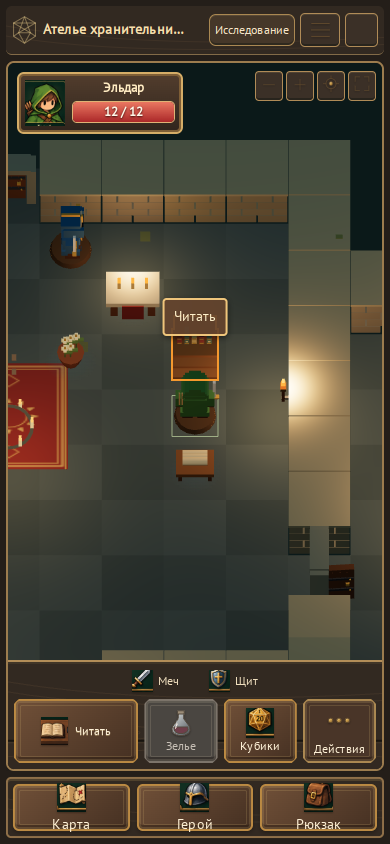
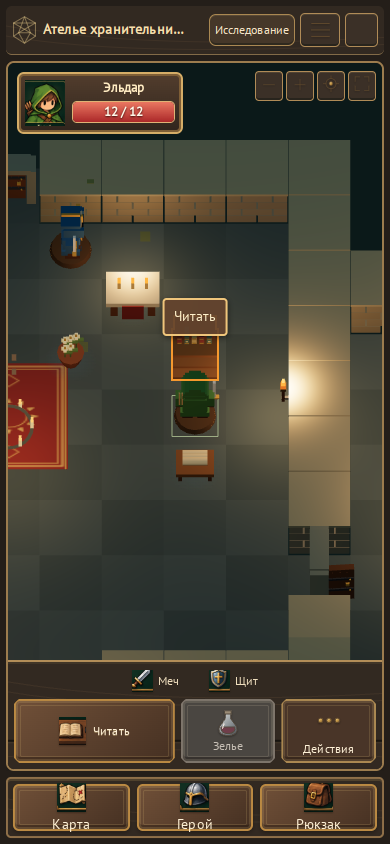
Update Site source

Changed region(s): [[0.5538, 0.8009, 0.9231, 0.9242], [0.0923, 0.8009, 0.4923, 0.9242]]

diff --git a/dist/style.css b/dist/style.css
@@ -37,7 +37,7 @@
 .point-budget{padding:12px;background:#244233;border:1px solid #8e9660;border-radius:10px;font-weight:600;font-size:18px!important}.point-stats{display:grid;gap:10px;margin:16px 0}.point-stat{display:grid;grid-template-columns:minmax(100px,1fr) 44px 38px 44px;gap:8px;align-items:center;padding:10px;border:1px solid #45604d;border-radius:10px}.point-stat strong{text-align:center;font-size:23px}.point-stat small{grid-column:1/-1;color:#c5cfb8;font-size:14px}.point-stat button{padding:0!important;font-size:23px}.point-stat button:disabled{opacity:.35}
 .world-save{min-height:36px;margin:8px 0 4px;padding:7px 12px;font-size:14px!important;color:#d2dabb;background:#193328;border:1px solid #5f7759;border-radius:9px}.world-save.save-error{color:#ffd19a;border-color:#b88750}.playing-world #tab-test{display:none}.world-locked #board,.world-locked #map-hands,.world-locked #quick-actions{pointer-events:none;opacity:.65}.saved-hero details summary{min-height:36px}.saved-hero>button{margin:0}
 /* Portrait play surface: all primary controls stay within the viewport. */
-body.game-ui{height:100dvh;overflow:hidden}.game-ui .tabletop{width:100%;min-width:0;height:100dvh;max-width:1400px;padding:calc(6px + env(safe-area-inset-top)) 8px calc(6px + env(safe-area-inset-bottom));display:grid;grid-template-rows:auto minmax(0,1fr) auto;gap:6px}.game-ui header{min-width:0;display:flex;gap:8px;margin:0;min-height:40px}.game-ui .title{flex:1;min-width:0;gap:6px}.game-ui .d20{width:25px;height:31px}.game-ui h1{font-size:18px}.game-ui .scene-name{font-size:14px;margin:0;white-space:nowrap;overflow:hidden;text-overflow:ellipsis;max-width:180px}.game-ui .turn{font:14px/1.2 system-ui;padding:8px;max-width:110px;white-space:normal}.game-ui .menu{height:38px}.game-ui .world-save{margin:0 0 0 5px;min-height:22px;max-width:110px;font-size:12px!important;white-space:nowrap;overflow:hidden;text-overflow:ellipsis;padding:2px 5px}.game-ui .title>div{display:flex;flex-wrap:wrap;align-items:center;gap:2px 5px}.game-ui #title{display:none}.game-ui #map-view{position:relative;min-height:0;overflow:hidden}.game-ui .map-shell{height:100%;padding:0;border-radius:12px;position:relative}.game-ui .viewport{height:100%;width:100%;border-radius:11px}.game-ui .map-toolbar{position:absolute;top:7px;right:7px;z-index:12;padding:0}.game-ui .map-toolbar>span,.game-ui .camera-tip,.game-ui .route-note{display:none!important}.game-ui .map-toolbar button{min-height:36px;background:#163125ee}.game-ui .party{position:absolute;top:7px;left:7px;z-index:12;display:block;width:152px}.game-ui .member:not(.active){display:none}.game-ui .member{width:152px;height:66px;grid-template-columns:45px 1fr;grid-template-rows:auto auto 6px;padding:4px 7px 7px 1px;background:#153024ed}.game-ui .portrait{width:43px;height:54px}.game-ui .member b{font-size:16px}.game-ui .member small{font-size:14px}.game-ui .episode-status{position:absolute;top:80px;left:7px;right:7px;z-index:11;min-height:34px;padding:6px 10px;margin:0;font-size:14px;line-height:1.3;text-align:left;background:#153025ee;border:1px solid #8f855f;white-space:nowrap;overflow:hidden;text-overflow:ellipsis}.game-ui .target-panel{position:absolute;right:7px;top:122px;z-index:11;max-width:215px;padding:7px;grid-template-columns:36px 1fr 28px;gap:6px;min-height:0;background:#102a21ed}.game-ui .target-art{width:36px;height:43px}.game-ui .target-panel h2{font-size:16px;margin:0}.game-ui .target-panel #target-hp{font-size:14px}.game-ui .target-panel #target-extra{display:none}.game-ui .target-panel.expanded #target-extra{display:block;font-size:14px}.game-ui #target-toggle{width:28px;min-height:36px;padding:0}.game-ui .play-dock{position:absolute;bottom:0;left:0;right:0;z-index:14;background:linear-gradient(#122b22f5,#0c231cff);padding:6px 7px 7px;border-top:1px solid #52674c;border-radius:12px 12px 0 0}.game-ui .map-hands{margin:0 0 5px;display:flex;gap:6px;min-height:0}.game-ui .map-hands>span{display:none}.game-ui .map-hands button{flex:1;min-height:36px;border-radius:8px;padding:4px 8px;font-size:14px;background:#203a2f;color:#e4d6ad;border:1px solid #52624c}.game-ui .actions{display:grid;grid-template-columns:1.3fr repeat(3,1fr);gap:5px;margin:0}.game-ui.in-combat .actions{grid-template-columns:1.2fr repeat(4,1fr)}.game-ui .actions button{padding:6px 3px;min-height:48px;border-radius:9px;gap:3px;display:flex;flex-direction:column;align-items:center;justify-content:center}.game-ui .actions button span{font-size:18px;line-height:1}.game-ui .actions button b{font-size:14px;line-height:1.2;font-weight:500}.game-ui .turn-strip{font-size:14px;margin:0 0 5px}.game-ui #initiative{position:absolute;top:119px;left:7px;right:7px;z-index:10;max-width:60%;overflow:auto;display:flex;gap:4px}.game-ui #initiative:empty{display:none}.game-ui .last-roll{position:absolute;bottom:117px;left:7px;z-index:13;max-width:65%;padding:6px 9px;min-height:32px;font-size:14px;background:#142f25ed;border:1px solid #667654;border-radius:8px}.game-ui #journal{margin:0;width:36px;height:38px;min-height:0;display:block;padding:5px;font-size:22px}.game-ui #map-view>.status,.game-ui .rules-credit,.game-ui .learning-tip,.game-ui .light-state,.game-ui .roll-ledger{display:none!important}.game-ui .tabs{position:static;margin:0;padding:5px;display:grid;grid-template-columns:repeat(3,minmax(0,1fr));gap:5px;min-height:54px}.game-ui .tabs button{min-width:0;min-height:44px;padding:5px 4px;font-size:14px;gap:6px}.game-ui .tabs span{font-size:21px}.game-ui .view:not(#map-view):not(#bag-view){overflow:auto;min-height:0;padding-bottom:8px}.game-ui #trial-panel{position:absolute;left:8px;right:8px;bottom:115px;z-index:15}.game-ui .object-prompt{max-width:210px}.game-ui #roll-result{position:fixed;top:auto;bottom:calc(68px + env(safe-area-inset-bottom));margin:0 auto;width:min(94vw,480px);max-height:60dvh;border:1px solid #a99868;border-radius:14px;padding:13px;background:#153126;color:#eee7d3}.game-ui #roll-result::backdrop{background:#04171066}.roll-heading{display:flex;justify-content:space-between;gap:8px;font-size:16px}.roll-heading span{font-size:14px;color:#c7c7a8}.check-body{display:flex;align-items:center;gap:14px;margin:10px 0}.check-die{width:58px;height:65px;display:grid;place-items:center;flex:none;clip-path:polygon(50% 0,95% 25%,95% 75%,50% 100%,5% 75%,5% 25%);background:#ad8f44;color:#fff3c2;font:bold 28px Georgia}.check-body p{font-size:16px;margin:0 0 5px}.check-success{color:#a9d59b}.check-failure{color:#e2ab93}#check-next{width:100%;min-height:44px;font-size:16px}.game-ui #modal pre{white-space:pre-wrap;font-size:16px;line-height:1.4}@media(min-width:800px){.game-ui .tabletop{max-width:1100px}.game-ui .play-dock{left:18%;right:18%}.game-ui .party{width:172px}.game-ui .member{width:172px}}
+body.game-ui{height:100dvh;overflow:hidden}.game-ui .tabletop{width:100%;min-width:0;height:100dvh;max-width:1400px;padding:calc(6px + env(safe-area-inset-top)) 8px calc(6px + env(safe-area-inset-bottom));display:grid;grid-template-rows:auto minmax(0,1fr) auto;gap:6px}.game-ui header{min-width:0;display:flex;gap:8px;margin:0;min-height:40px}.game-ui .title{flex:1;min-width:0;gap:6px}.game-ui .d20{width:25px;height:31px}.game-ui h1{font-size:18px}.game-ui .scene-name{font-size:14px;margin:0;white-space:nowrap;overflow:hidden;text-overflow:ellipsis;max-width:180px}.game-ui .turn{font:14px/1.2 system-ui;padding:8px;max-width:110px;white-space:normal}.game-ui .menu{height:38px}.game-ui .world-save{margin:0 0 0 5px;min-height:22px;max-width:110px;font-size:12px!important;white-space:nowrap;overflow:hidden;text-overflow:ellipsis;padding:2px 5px}.game-ui .title>div{display:flex;flex-wrap:wrap;align-items:center;gap:2px 5px}.game-ui #title{display:none}.game-ui #map-view{position:relative;min-height:0;overflow:hidden}.game-ui .map-shell{height:100%;padding:0;border-radius:12px;position:relative}.game-ui .viewport{height:100%;width:100%;border-radius:11px}.game-ui .map-toolbar{position:absolute;top:7px;right:7px;z-index:12;padding:0}.game-ui .map-toolbar>span,.game-ui .camera-tip,.game-ui .route-note{display:none!important}.game-ui .map-toolbar button{min-height:36px;background:#163125ee}.game-ui .party{position:absolute;top:7px;left:7px;z-index:12;display:block;width:152px}.game-ui .member:not(.active){display:none}.game-ui .member{width:152px;height:66px;grid-template-columns:45px 1fr;grid-template-rows:auto auto 6px;padding:4px 7px 7px 1px;background:#153024ed}.game-ui .portrait{width:43px;height:54px}.game-ui .member b{font-size:16px}.game-ui .member small{font-size:14px}.game-ui .episode-status{position:absolute;top:80px;left:7px;right:7px;z-index:11;min-height:34px;padding:6px 10px;margin:0;font-size:14px;line-height:1.3;text-align:left;background:#153025ee;border:1px solid #8f855f;white-space:nowrap;overflow:hidden;text-overflow:ellipsis}.game-ui .target-panel{position:absolute;right:7px;top:122px;z-index:11;max-width:215px;padding:7px;grid-template-columns:36px 1fr 28px;gap:6px;min-height:0;background:#102a21ed}.game-ui .target-art{width:36px;height:43px}.game-ui .target-panel h2{font-size:16px;margin:0}.game-ui .target-panel #target-hp{font-size:14px}.game-ui .target-panel #target-extra{display:none}.game-ui .target-panel.expanded #target-extra{display:block;font-size:14px}.game-ui #target-toggle{width:28px;min-height:36px;padding:0}.game-ui .play-dock{position:absolute;bottom:0;left:0;right:0;z-index:14;background:linear-gradient(#122b22f5,#0c231cff);padding:6px 7px 7px;border-top:1px solid #52674c;border-radius:12px 12px 0 0}.game-ui .map-hands{margin:0 0 5px;display:flex;gap:6px;min-height:0}.game-ui .map-hands>span{display:none}.game-ui .map-hands button{flex:1;min-height:36px;border-radius:8px;padding:4px 8px;font-size:14px;background:#203a2f;color:#e4d6ad;border:1px solid #52624c}.game-ui .actions{display:grid;grid-template-columns:1.3fr repeat(2,1fr);gap:5px;margin:0}.game-ui.in-combat .actions{grid-template-columns:1.2fr repeat(3,1fr)}.game-ui .actions button{padding:6px 3px;min-height:48px;border-radius:9px;gap:3px;display:flex;flex-direction:column;align-items:center;justify-content:center}.game-ui .actions button span{font-size:18px;line-height:1}.game-ui .actions button b{font-size:14px;line-height:1.2;font-weight:500}.game-ui .turn-strip{font-size:14px;margin:0 0 5px}.game-ui #initiative{position:absolute;top:119px;left:7px;right:7px;z-index:10;max-width:60%;overflow:auto;display:flex;gap:4px}.game-ui #initiative:empty{display:none}.game-ui .last-roll{position:absolute;bottom:117px;left:7px;z-index:13;max-width:65%;padding:6px 9px;min-height:32px;font-size:14px;background:#142f25ed;border:1px solid #667654;border-radius:8px}.game-ui #journal{margin:0;width:36px;height:38px;min-height:0;display:block;padding:5px;font-size:22px}.game-ui #map-view>.status,.game-ui .rules-credit,.game-ui .learning-tip,.game-ui .light-state,.game-ui .roll-ledger{display:none!important}.game-ui .tabs{position:static;margin:0;padding:5px;display:grid;grid-template-columns:repeat(3,minmax(0,1fr));gap:5px;min-height:54px}.game-ui .tabs button{min-width:0;min-height:44px;padding:5px 4px;font-size:14px;gap:6px}.game-ui .tabs span{font-size:21px}.game-ui .view:not(#map-view):not(#bag-view){overflow:auto;min-height:0;padding-bottom:8px}.game-ui #trial-panel{position:absolute;left:8px;right:8px;bottom:115px;z-index:15}.game-ui .object-prompt{max-width:210px}.game-ui #roll-result{position:fixed;top:auto;bottom:calc(68px + env(safe-area-inset-bottom));margin:0 auto;width:min(94vw,480px);max-height:60dvh;border:1px solid #a99868;border-radius:14px;padding:13px;background:#153126;color:#eee7d3}.game-ui #roll-result::backdrop{background:#04171066}.roll-heading{display:flex;justify-content:space-between;gap:8px;font-size:16px}.roll-heading span{font-size:14px;color:#c7c7a8}.check-body{display:flex;align-items:center;gap:14px;margin:10px 0}.check-die{width:58px;height:65px;display:grid;place-items:center;flex:none;clip-path:polygon(50% 0,95% 25%,95% 75%,50% 100%,5% 75%,5% 25%);background:#ad8f44;color:#fff3c2;font:bold 28px Georgia}.check-body p{font-size:16px;margin:0 0 5px}.check-success{color:#a9d59b}.check-failure{color:#e2ab93}#check-next{width:100%;min-height:44px;font-size:16px}.game-ui #modal pre{white-space:pre-wrap;font-size:16px;line-height:1.4}@media(min-width:800px){.game-ui .tabletop{max-width:1100px}.game-ui .play-dock{left:18%;right:18%}.game-ui .party{width:172px}.game-ui .member{width:172px}}
 
 .game-ui #journal>span{display:none}.game-ui #journal:before{content:'▤'}
 
@@ -75,7 +75,7 @@ body.illustrated-ui{--ui-gold:#c9a15c;--ui-ink:#091c19;--font-ui:'Trebuchet MS',
 .illustrated-ui #target-extra{display:none!important}
 .illustrated-ui #play-dock{position:relative;inset:auto;flex:none;z-index:2;padding:5px 6px 6px;background:linear-gradient(145deg,#1d3328,#0b211a);border-top:1px solid #967649;border-radius:0;box-shadow:inset 0 2px 0 #d4b56c16}
 .illustrated-ui .map-hands{justify-content:center;gap:12px;margin:0 0 5px;min-height:26px}.illustrated-ui .map-hands button{flex:0 1 auto;display:flex;align-items:center;gap:5px;padding:2px 9px;min-height:26px;font-size:12px;border:0;border-radius:0;box-shadow:none;background:none;color:#c8bc93}.illustrated-ui .map-hands .ui-icon{width:21px;height:22px}
-.illustrated-ui .actions{grid-template-columns:1.7fr repeat(3,1fr);gap:5px}.illustrated-ui.in-combat .actions{grid-template-columns:1.5fr repeat(4,1fr)}
+.illustrated-ui .actions{grid-template-columns:1.7fr repeat(2,1fr);gap:5px}.illustrated-ui.in-combat .actions{grid-template-columns:1.5fr repeat(3,1fr)}
 .illustrated-ui .actions button{min-height:49px;display:flex;flex-direction:column;justify-content:center;gap:1px;border-radius:3px;padding:4px 2px;clip-path:polygon(5px 0,calc(100% - 5px) 0,100% 5px,100% calc(100% - 5px),calc(100% - 5px) 100%,5px 100%,0 calc(100% - 5px),0 5px)}
 .illustrated-ui .actions button b{font-size:13px;line-height:1.1}.illustrated-ui .actions .ui-icon{width:25px;height:26px}.illustrated-ui #action{flex-direction:row;gap:6px}.illustrated-ui #action .ui-icon{width:27px;height:28px}
 .illustrated-ui .tabs{position:static;background:linear-gradient(#1c3328,#0a2019);padding:3px 4px 2px;border:1px solid #725e3f;border-radius:5px;min-height:53px;gap:0;box-shadow:inset 0 2px 0 #cbaa6030}

diff --git a/dist/game.js b/dist/game.js
@@ -37,7 +37,7 @@ const wait=ms=>new Promise(r=>setTimeout(r,ms)),animate=()=>state.settings.anima
 async function travel(e,steps){let completed=0;const controlled=e.kind<3&&busy&&e.id===state.active;moving=controlled;if(controlled)render();try{for(const p of steps){if(controlled&&stopRequested)break;const duration=animate()?220:0;if(state.combat&&!e.disengaged){for(const foe of(e.kind===3?state.party:state.enemies).filter(f=>f.hp>0&&!f.reactionUsed&&DND.weapon(f,state.level).range===1&&dist(e,f)===1&&dist(p,f)>1)){foe.reactionUsed=true;await strike(foe,e,foe.kind===3,true);if(e.hp<=0)return completed}}const from={x:e.x,y:e.y};face(e,p);e.x=p.x;e.y=p.y;if(state.combat&&controlled)e.move--;save();window.voxel?.move(e.id,from,p,duration);renderPieces();window.voxel?.sync();window.fx?.step(e,duration);await wait(duration);completed++;if(e.id===state.active)window.camera?.follow(e);if(controlled)path=steps.slice(completed);}return completed;}finally{if(controlled)moving=false;}}
 async function move(){if(window.Worlds?.locked)return;const a=active(),r=path.slice();if(busy||!r.length||(state.combat&&r.length>a.move))return;busy=true;stopRequested=false;render();try{await travel(a,r);selected=null;}finally{path=[];busy=false;save();render();}}
 function report(text){state.rolls.push(text);if(state.rolls.length>40)state.rolls.shift();tell(text)}
-function freeRoll(expression){const r=DND.roll(expression);report(r.text);$('dice-panel').close();window.HUD?.showRoll(r,'Свободный бросок');$('dice-result').textContent=r.text;$('number').textContent=r.total;$('dice').hidden=false;setTimeout(()=>$('dice').hidden=true,1600);render();return r}
+function freeRoll(expression){if(state.world||document.getElementById('test-view').hidden)throw Error('Свободные броски доступны только в мастерской.');const r=DND.roll(expression);report(r.text);$('dice-panel').close();window.HUD?.showRoll(r,'Свободный бросок');$('dice-result').textContent=r.text;$('number').textContent=r.total;$('dice').hidden=false;setTimeout(()=>$('dice').hidden=true,1600);render();return r}
 function heal(a,n){a.hp=Math.min(a.max,a.hp+n);if(a.hp>0){a.conditions=a.conditions.filter(c=>c!=='unconscious');a.death={success:0,failure:0,stable:false}}}
 async function strike(a,b,enemy=false,reaction=false){face(a,b);renderPieces();window.voxel?.sync();const hasAdvantage=state.advantage>0||a.hidden||b.conditions?.includes('unconscious');const hasDisadvantage=state.advantage<0||a.hands?.includes('torch')||(b.dodging&&window.visibility?.canSee(b,a))||a.conditions.includes('poisoned')||(DND.weapon(a,state.level).range>1&&all().some(e=>e.kind!==a.kind&&e.kind>=3!== (a.kind>=3)&&!e.dummy&&e.hp>0&&dist(a,e)===1));const advantage=hasAdvantage&&hasDisadvantage?0:hasAdvantage?1:hasDisadvantage?-1:0;const r=DND.attack(a,b,a.kind===3?1:state.level,advantage);if(a.hands?.includes('torch'))r.text+='\nФакел в руке — источник помехи (правило игры).';if(r.hit&&b.conditions?.includes('unconscious')&&dist(a,b)===1&&!r.critical){r.critical=true;const w=r.weapon;r.damage=DND.roll(`${(w.count||1)*2}d${w.die}${w.damageBonus?(w.damageBonus>0?'+':'')+w.damageBonus:''}`);r.amount=r.damage.total;r.text+='\nБез сознания: критическое попадание вблизи · '+r.damage.text;}a.hidden=false;
  if(r.hit&&b.kind===1&&b.classId!=='cleric'&&state.autoShield&&b.slots>0&&!b.reactionUsed&&r.natural!==20&&r.total<b.ac+5){b.slots--;b.reactionUsed=true;b.shielded=true;r.hit=false;r.amount=0;r.text+='\nМира: реакция «Щит», КД +5. Удар отражён.';}
@@ -74,7 +74,7 @@ function modal(title,text){$('modal-title').textContent=title;$('modal-body').te
 function journal(){modal('Хроника',state.logs.slice(-20).join('\n\n'))}
 function help(){modal('Как проверять полигон','Нажмите клетку, затем «Идти». Движение и атаки — по четырём сторонам (домашнее правило). Инициатива задаёт очередь, действие и бонус расходуются отдельно. Факел сначала нужно снять с настенного крепления с соседней клетки. В «Герое» или «Действиях» выберите, что держать в двух руках; в «Рюкзаке» можно зажечь, погасить и убрать найденный факел. На пустое крепление его можно вернуть. Щит даёт +2 КД, лук занимает две руки. Домашние правила: факел в руке даёт помеху атакам; в бою смена снаряжения расходует действие, операции с факелом — бонусное действие. Преимущество и помеха взаимно отменяются. Откройте «Действия» для навыков и отдыха. Фигурки поворачиваются к шагу и цели. Приближайте карту двумя пальцами и двигайте одним. Предметы и NPC доступны с соседней клетки. Вкладка «Тест» восстанавливает предметы, запускает бой и позволяет менять свет. Диалоги сейчас сценарные; ИИ-ведущий ещё не подключён.')}
 function test(action,value){if(state.world){tell('Проверки доступны в отдельной тестовой комнате.');render();return;}if(busy)return;switch(action){case'rules':state.rulesStage=+value;tell('Этап освоения правил: '+state.rulesStage+'.');break;case'poison':active().conditions=active().conditions.includes('poisoned')?[]:['poisoned'];tell('Состояние «Отравлен» переключено.');break;case'down':active().hp=0;active().conditions=['unconscious'];active().death={success:0,failure:0,stable:false};tell('Герой без сознания. Восстановите его кнопкой теста.');break;case'heal':for(const p of state.party){p.dead=false;heal(p,p.max);p.acted=p.bonusUsed=p.reactionUsed=false;p.move=p.speed||6;p.slots=p.maxSlots;p.secondWind=p.maxSecondWind}state.potions=8;tell('Отряд и зелья восстановлены.');break;case'coins':state.gold+=50;tell('+50 тестовых монет.');break;case'xp':state.xp+=100;tell('+100 опыта.');break;case'loot':state.loot={};state.chest=false;state.relic=false;tell('Сундуки и алтарь сброшены.');break;case'dialogue':state.persuasionAttempted=false;state.secretKnown=false;state.clues=[];window.openKeeperDialogue?.();break;case'npc':if(state.scene!=='hub')enterScene('hub');state.party[0].x=6;state.party[0].y=4;state.active=state.party[0].id;selected={x:6,y:3};window.camera?.center(active(),true);break;case'dummies':if(state.scene!=='hub')enterScene('hub');state.doors['hub:door']=true;state.party.forEach((p,i)=>{[p.x,p.y]=scene().trainingSpawn[i]});window.camera?.center(active(),true);break;case'fight':state.combat=true;state.round=1;state.party.forEach((p,i)=>{[p.x,p.y]=scene().trainingSpawn[i];p.dead=false;heal(p,p.max);p.acted=p.bonusUsed=p.reactionUsed=false;p.move=p.speed});state.doors[state.scene+':door']=true;state.enemies=scene().enemySpawn.map(([x,y],i)=>DND.init({id:'e'+i,name:i?'Костяной дозорный':'Скелетный страж',kind:3,x,y,facing:3}));for(const p of [...state.party,...state.enemies]){const r=DND.test(DND.mod(p.stats.dex),0);p.initiative=r.total;report(p.name+' · инициатива · '+r.text.split(' против ')[0]);}state.order=[...state.party,...state.enemies].sort((a,b)=>b.initiative-a.initiative||DND.mod(b.stats.dex)-DND.mod(a.stats.dex)||a.id.localeCompare(b.id)).map(p=>p.id);state.cursor=0;busy=true;tell('Тренировочный бой. Очередь определена инициативой.');render();enemiesUntilPlayer(false);return;case'peace':state.combat=false;state.enemies=[];tell('Свободное исследование.');break;case'scene':enterScene(value);return;case'doors':for(const p of props().filter(p=>p.type==='door'))if(!entity(p))state.doors[doorKey(p)]=!isOpen(p);tell('Двери переключены.');break;case'damage':window.fx?.impact(active(),8,false,animate());break;case'crit':window.fx?.impact(active(),16,true,animate());break;case'miss':window.fx?.impact(active(),'Промах',false,animate());break;case'light':state.settings.lights=!state.settings.lights;break;case'grid':state.settings.grid=!state.settings.grid;break;case'animations':state.settings.animations=!state.settings.animations;break;case'ambient':state.settings.ambient=+value;break;case'intensity':state.settings.intensity=+value;break;case'reset':state=fresh();enterScene('hub');return}save();render();}
-$('roll').onclick=()=>{$('dice-panel').showModal()};$('potion').onclick=potion;$('end').onclick=endTurn;$('journal').onclick=()=>window.openNarratorDialogue?.();$('turn').onclick=help;$('close').onclick=()=>$('modal').close();$('menu').onclick=()=>window.GameMenu.open();$('target-toggle').onclick=()=>{$('target-panel').classList.toggle('expanded');$('target-toggle').setAttribute('aria-expanded',String($('target-panel').classList.contains('expanded')))};
+$('roll').onclick=()=>{};document.getElementById('workshop-dice').onclick=()=>{if(!state.world&&!document.getElementById('test-view').hidden)$('dice-panel').showModal();};$('potion').onclick=potion;$('end').onclick=endTurn;$('journal').onclick=()=>window.openNarratorDialogue?.();$('turn').onclick=help;$('close').onclick=()=>$('modal').close();$('menu').onclick=()=>window.GameMenu.open();$('target-toggle').onclick=()=>{$('target-panel').classList.toggle('expanded');$('target-toggle').setAttribute('aria-expanded',String($('target-panel').classList.contains('expanded')))};
 function loadHero(h,fromMenu=false){if(busy||state.combat&&!fromMenu)return false;window.Worlds?.detach();const settings={...state.settings};state=fresh();state.settings=settings;state.heroTestId=h.id;const a=structuredClone(h);[a.x,a.y]=World.scenes.hub.spawns[0];state.party=[a];state.active=a.id;state.level=a.level;state.xp=a.xp;state.gold=a.gold;state.potions=0;state.rulesStage=3;state.logs=['Тестовая комната · '+a.name+'. Здесь можно проверить созданного героя; испытания не меняют его сохранённый стартовый лист.'];pieces.forEach(el=>el.remove());pieces.clear();selected=null;path=[];window.closeDialogue?.();window.Torches?.ensure();createCells();save();render();window.voxel?.reset();window.camera?.center(a);return true;}
 function loadWorld(snapshot){state=structuredClone(snapshot);state.altarClaims||={};state.world.discovered||=['hub'];selected=null;path=[];busy=moving=false;stopRequested=false;pieces.forEach(el=>el.remove());pieces.clear();window.closeDialogue?.();window.Torches?.ensure();createCells();render();window.voxel?.reset();window.camera?.center(active());return true;}
 window.gameDebug={loadWorld,loadHero,get state(){return state},get departingNpc(){return departingNpc},departNpc,approachTransfer,get busy(){return busy||!!window.Worlds?.locked},get props(){return props()},get scene(){return scene()},get selected(){return selected},get route(){return path},get moving(){return moving},stop:()=>{stopRequested=true},special,freeRoll,report,heal,all,isOpen,blocked,select,attack,pathTo,line,canAttack,approachInteract,approachPath,center:p=>({x:(p.x+.5)/scene().W,y:(p.y+.5)/scene().H}),render,art,active,save,tell,potion,journal,help,roll,test,enterScene,animate,getPiece:id=>pieces.get(id)};

diff --git a/dist/index.html b/dist/index.html
@@ -4,11 +4,11 @@
 <div class="map-shell"><div class="map-toolbar"><span>Карта</span><div><button id="zoom-out" aria-label="Уменьшить">−</button><button id="zoom-in" aria-label="Увеличить">+</button><button id="camera-center">К герою</button><button id="camera-fit">Целиком</button></div></div>
 <p id="route-note" class="route-note" hidden></p><div id="viewport" class="viewport"><div id="board" class="board" role="grid" aria-label="Тестовая локация"><canvas id="terrain"></canvas><div id="cells" class="cells"></div><div id="actors" class="actors"><div id="objects" class="objects"></div><div id="pieces" class="pieces"></div></div><div id="torches" class="torches"></div><canvas id="lighting" aria-hidden="true"></canvas><div id="effects" class="effects"></div></div><div id="dice" class="dice" hidden><b id="number">20</b><small>бросок</small></div><details class="roll-ledger" open><summary>Расчёт броска</summary><pre id="roll-log"></pre></details><span class="camera-tip">Двигайте карту · два пальца для масштаба</span></div></div>
 <button id="episode-status" class="episode-status" hidden></button><section id="target-panel" class="target-panel"><div id="target-art" class="target-art"></div><div class="target-copy"><h2 id="target-name"></h2><span id="target-hp"></span><div class="hp-track target-track"><i id="target-bar"></i></div><p id="target-extra"></p></div><button id="target-toggle" aria-label="Подробности цели" aria-expanded="false">···</button></section>
-<div id="map-hands" class="map-hands" aria-label="Снаряжение рук"></div><section id="trial-panel" class="trial-panel" hidden><div><b id="trial-step"></b><button id="trial-stop">Закончить</button></div><p id="trial-hint"></p><button id="trial-focus">Показать цель</button></section><div id="initiative" class="initiative" aria-label="Очередь инициативы"></div><div class="turn-strip"><span id="turn-resources"></span><button id="combat-tools-toggle" aria-label="Раскрыть действия">Действия</button></div><section id="combat-tools" class="combat-tools" hidden><label>Бросок <select id="advantage"><option value="0">Обычный</option><option value="1">Преимущество</option><option value="-1">Помеха</option></select></label><div id="quick-actions" class="quick-actions"></div><div class="rest-actions"><button id="skills">Навыки</button><button id="rest-short">Короткий отдых</button><button id="rest-long">Длительный отдых</button></div></section><footer class="actions"><button id="action" class="gold"><span>◇</span><b id="action-label">Идти</b></button><button id="potion"><span>⚗</span><b>Зелье</b></button><button id="roll" aria-label="Выбрать кубики"><span>⬡</span><b>Кубики</b></button><button id="end"><span>◷</span><b>Конец хода</b></button></footer>
+<div id="map-hands" class="map-hands" aria-label="Снаряжение рук"></div><section id="trial-panel" class="trial-panel" hidden><div><b id="trial-step"></b><button id="trial-stop">Закончить</button></div><p id="trial-hint"></p><button id="trial-focus">Показать цель</button></section><div id="initiative" class="initiative" aria-label="Очередь инициативы"></div><div class="turn-strip"><span id="turn-resources"></span><button id="combat-tools-toggle" aria-label="Раскрыть действия">Действия</button></div><section id="combat-tools" class="combat-tools" hidden><label>Бросок <select id="advantage"><option value="0">Обычный</option><option value="1">Преимущество</option><option value="-1">Помеха</option></select></label><div id="quick-actions" class="quick-actions"></div><div class="rest-actions"><button id="skills">Навыки</button><button id="rest-short">Короткий отдых</button><button id="rest-long">Длительный отдых</button></div></section><footer class="actions"><button id="action" class="gold"><span>◇</span><b id="action-label">Идти</b></button><button id="potion"><span>⚗</span><b>Зелье</b></button><button id="roll" hidden aria-label="Выбрать кубики"><span>⬡</span><b>Кубики</b></button><button id="end"><span>◷</span><b>Конец хода</b></button></footer>
 <p id="learning-tip" class="learning-tip"></p><div id="light-state" class="light-state"></div><button id="journal" class="journal"><span>▤</span><span id="narrative"></span><span class="journal-link">Диалог</span></button>
 <section id="dialogue" class="dialogue" aria-label="Диалог" hidden><div class="speaker-card"><div id="speaker-art" class="speaker-art"></div><div class="speaker-copy"><span id="speaker-name"></span><p id="dialogue-text" aria-live="polite"></p></div></div><div id="dialogue-options" class="dialogue-options"></div><button id="dialogue-close" class="dialogue-close" aria-label="Закрыть диалог">×</button></section>
 <div class="status"><span id="hint"></span><span id="resources"></span></div></section>
-<section id="hero-view" class="view hero-layout" hidden><div class="hero-stage"><button hidden id="hero-prev" class="hero-arrow" aria-label="Предыдущий герой">‹</button><div id="hero-art" class="hero-art"></div><button hidden id="hero-next" class="hero-arrow" aria-label="Следующий герой">›</button></div><div class="hero-sheet"><div class="hero-heading"><div><h2 id="hero-name"></h2><p id="hero-class"></p></div><span id="hero-level" class="level-badge"></span></div><div id="hero-progress" class="hero-progress"></div><div id="hero-stats" class="hero-stats"></div><div id="equipment" class="equipment"></div><button id="level-up" class="level-up"></button><p id="hero-action-note" class="subtle"></p></div></section><section id="bag-view" class="view bag-layout" hidden><div><div class="pane-heading"><h2>Рюкзак</h2><span id="bag-gold"></span></div><div id="bag-items" class="bag-items"></div></div><div id="item-detail" class="item-detail"></div></section><section id="test-view" class="view test-view" hidden><div class="test-heading"><div><span class="eyebrow">Личная мастерская</span><h2>Мастерская</h2><p>Предметы и эффекты можно повторять. Диалоги пока сценарные.</p></div><button id="workshop-back" onclick="viewsDebug.switchTab('map')">Вернуться на карту</button><span id="test-state" class="level-badge"></span></div>
+<section id="hero-view" class="view hero-layout" hidden><div class="hero-stage"><button hidden id="hero-prev" class="hero-arrow" aria-label="Предыдущий герой">‹</button><div id="hero-art" class="hero-art"></div><button hidden id="hero-next" class="hero-arrow" aria-label="Следующий герой">›</button></div><div class="hero-sheet"><div class="hero-heading"><div><h2 id="hero-name"></h2><p id="hero-class"></p></div><span id="hero-level" class="level-badge"></span></div><div id="hero-progress" class="hero-progress"></div><div id="hero-stats" class="hero-stats"></div><div id="equipment" class="equipment"></div><button id="level-up" class="level-up"></button><p id="hero-action-note" class="subtle"></p></div></section><section id="bag-view" class="view bag-layout" hidden><div><div class="pane-heading"><h2>Рюкзак</h2><span id="bag-gold"></span></div><div id="bag-items" class="bag-items"></div></div><div id="item-detail" class="item-detail"></div></section><section id="test-view" class="view test-view" hidden><button id="workshop-dice" type="button">Проверить кубики</button><div class="test-heading"><div><span class="eyebrow">Личная мастерская</span><h2>Мастерская</h2><p>Предметы и эффекты можно повторять. Диалоги пока сценарные.</p></div><button id="workshop-back" onclick="viewsDebug.switchTab('map')">Вернуться на карту</button><span id="test-state" class="level-badge"></span></div>
 <section class="test-card"><h3>Свет и тайник</h3><p>Пять шагов: факел, дверь, осмотр ниши, находка и разговор с Эллен.</p><button id="start-trial">Начать проверку</button></section><section class="test-card rule-stages"><h3>Освоение D&D</h3><div class="test-buttons"><button data-test="rules" data-value="1">1 · Броски и движение</button><button data-test="rules" data-value="2">2 · Действия и реакции</button><button data-test="rules" data-value="3">3 · Магия и способности</button><button data-test="poison">Состояние: отравлен</button><button data-test="down">Состояние: без сознания</button></div><p class="subtle">Полные расчёты доступны сразу. Дополнительные действия раскрываются по этапам.</p></section><div class="test-grid"><section class="test-card"><h3>Локации и персонажи</h3><div class="test-buttons"><button data-test="scene" data-value="hub">Ателье</button><button data-test="scene" data-value="crypt">Крипта</button><button data-test="npc">К Эллен</button><button data-test="dummies">К манекенам</button><button data-test="doors">Открыть / закрыть двери</button><button data-test="dialogue">Повторить диалог</button></div></section>
 <section class="test-card"><h3>Бой и реакции</h3><div class="test-buttons"><button data-test="fight">Начать бой</button><button data-test="peace">Остановить бой</button><button data-test="damage">Урон −8</button><button data-test="crit">Критический удар</button><button data-test="miss">Промах</button><button data-test="heal">Восстановить отряд</button></div></section>
 <section class="test-card"><h3>Предметы и развитие</h3><div class="test-buttons"><button data-test="loot">Восстановить сундуки</button><button data-test="coins">+50 монет</button><button data-test="xp">+100 опыта</button><button data-test="reset">Сброс полигона</button></div></section>

diff --git a/dist/menu.js b/dist/menu.js
@@ -2,7 +2,7 @@
 function close(){const d=$('modal');d.close();}
 function button(label,fn){const b=document.createElement('button');b.textContent=label;b.onclick=()=>{close();fn();};b.className='menu-option';return b;}
 function actions(){const d=$('actions-panel');$('combat-tools').hidden=false;d.showModal();}
-function menu(){const d=$('modal'),body=$('modal-body');$('modal-title').textContent='Меню';body.replaceChildren(button('Сохранить и выйти в меню героев',()=>window.Worlds.exitToMenu()),button('Текущий мир',()=>window.Worlds.open()),button('Мои герои',()=>window.Heroes.open()),button('Эпизод · Пропавший послушник',()=>window.Episode.open()),button('Действия героя',actions),button('Кубики',()=>$('dice-panel').showModal()),button('Хроника',()=>g().journal()),button('Как играть',()=>g().help()),button('Правила и источники',()=>{const d=$('modal');$('modal-title').textContent='Правила и источники';const p=document.createElement('p');p.textContent='Основа: SRD 5.2.1 · CC BY 4.0.';const a=document.createElement('a');a.href='rules.html';a.textContent='Открыть правила, источники и домашние изменения';$('modal-body').replaceChildren(p,a);d.showModal();}),button('Мастерская · проверки и настройки',()=>window.Worlds.workshop()));d.showModal();}
+function menu(){const d=$('modal'),body=$('modal-body');$('modal-title').textContent='Меню';body.replaceChildren(button('Сохранить и выйти в меню героев',()=>window.Worlds.exitToMenu()),button('Текущий мир',()=>window.Worlds.open()),button('Мои герои',()=>window.Heroes.open()),button('Эпизод · Пропавший послушник',()=>window.Episode.open()),button('Действия героя',actions),button('Хроника',()=>g().journal()),button('Как играть',()=>g().help()),button('Правила и источники',()=>{const d=$('modal');$('modal-title').textContent='Правила и источники';const p=document.createElement('p');p.textContent='Основа: SRD 5.2.1 · CC BY 4.0.';const a=document.createElement('a');a.href='rules.html';a.textContent='Открыть правила, источники и домашние изменения';$('modal-body').replaceChildren(p,a);d.showModal();}),button('Мастерская · проверки и настройки',()=>window.Worlds.workshop()));d.showModal();}
 function init(){const tools=$('combat-tools'),d=document.createElement('dialog');d.id='actions-panel';const head=document.createElement('div');head.className='modal-head';const title=document.createElement('h2');title.textContent='Действия героя';const b=document.createElement('button');b.append(UIIcons.node('close'));b.setAttribute('aria-label','Закрыть действия');b.onclick=()=>d.close();head.append(title,b);d.append(head,tools);document.body.append(d);const toggle=$('combat-tools-toggle');toggle.innerHTML='<span>···</span><b>Действия</b>';toggle.onclick=actions;$('end').before(toggle);$('menu').onclick=menu;$('tab-test').hidden=true;$('menu').textContent='☰';$('menu').setAttribute('aria-label','Меню');$('menu').setAttribute('aria-haspopup','dialog');const ledger=$('roll-log').closest('details');ledger.removeAttribute('open');$('journal').after(ledger);$('camera-center').textContent='◎';$('camera-center').setAttribute('aria-label','Центрировать на герое');$('camera-fit').textContent='⛶';$('camera-fit').setAttribute('aria-label','Показать всю карту');render();}
 function render(){if(!g())return;const s=g().state;document.body.classList.toggle('in-combat',s.combat);$('end').hidden=!s.combat;$('turn-resources').parentElement.hidden=!s.combat;$('learning-tip').hidden=true;$('light-state').hidden=true;$('rules-credit')?.classList.add('workshop-only');}
 window.GameMenu={init,render,open:menu,actions};})();
